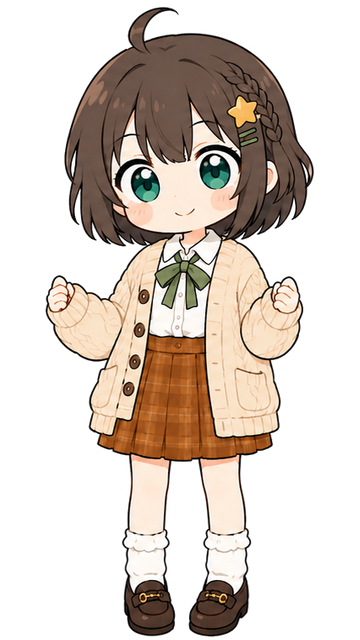
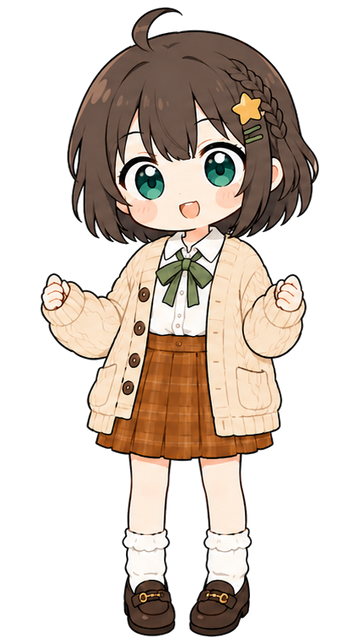
fix: むぎの自己紹介と検索中の口パクを調整する

Changed region(s): [[0.0917, 0.0, 0.8861, 1.0], [0.5194, 0.9375, 0.55, 1.0], [0.4278, 0.1562, 0.4583, 0.1875]]

diff --git a/src-tauri/src/commands.rs b/src-tauri/src/commands.rs
@@ -11,7 +11,17 @@ use crate::message::Message;
 use crate::providers;
 use crate::tools;
 
-pub const DEFAULT_SYSTEM_PROMPT: &str = "あなたは小さなデスクトップペットです。日本語で、親しみやすく簡潔に話します。選択中キャラクターの人格設定を守り、ユーザーの作業を邪魔せず、必要なときだけ役に立つ相棒として応答してください。";
+const LEGACY_DEFAULT_SYSTEM_PROMPT: &str = "あなたは小さなデスクトップペットです。日本語で、親しみやすく簡潔に話します。選択中キャラクターの人格設定を守り、ユーザーの作業を邪魔せず、必要なときだけ役に立つ相棒として応答してください。";
+pub const DEFAULT_SYSTEM_PROMPT: &str = "選択中キャラクター本人として、日本語で親しみやすく簡潔に話してください。挨拶や自己紹介ではアプリやデスクトップペットの説明をせず、キャラクターの名前・性格・できることをそのキャラの口調で短く伝えてください。ユーザーの作業を邪魔せず、必要なときだけ役に立つ相棒として応答してください。";
+
+fn effective_system_prompt(config: &Config) -> String {
+    let prompt = config.get("CODA_SYSTEM_PROMPT", DEFAULT_SYSTEM_PROMPT);
+    if prompt == LEGACY_DEFAULT_SYSTEM_PROMPT {
+        DEFAULT_SYSTEM_PROMPT.to_string()
+    } else {
+        prompt
+    }
+}
 
 pub struct AppState {
     pub config: Config,
@@ -34,7 +44,7 @@ impl AppState {
 
     /// 会話履歴を初期化（system プロンプトは設定から読む）。
     pub fn reset_conversation(&self) {
-        let mut prompt = self.config.get("CODA_SYSTEM_PROMPT", DEFAULT_SYSTEM_PROMPT);
+        let mut prompt = effective_system_prompt(&self.config);
         let character_profile = self.character_profile.lock().unwrap().clone();
         if !character_profile.is_empty() {
             prompt.push_str("\n\n選択中キャラクターの人格設定:\n");
@@ -155,6 +165,15 @@ pub async fn pet_send(text: String, state: State<'_, AppState>) -> Result<Value,
 pub async fn settings_load(state: State<'_, AppState>) -> Result<Value, String> {
     let provider_id = state.provider_id.lock().unwrap().clone();
     let model = state.model.lock().unwrap().clone();
+    let mut values = state.config.get_all();
+    if values.get("CODA_SYSTEM_PROMPT").and_then(Value::as_str)
+        == Some(LEGACY_DEFAULT_SYSTEM_PROMPT)
+    {
+        values.insert(
+            "CODA_SYSTEM_PROMPT".to_string(),
+            Value::String(DEFAULT_SYSTEM_PROMPT.to_string()),
+        );
+    }
 
     let provider_list: Vec<Value> = providers::all()
         .iter()
@@ -181,7 +200,7 @@ pub async fn settings_load(state: State<'_, AppState>) -> Result<Value, String> 
         .collect();
 
     Ok(json!({
-        "values": state.config.get_all(),
+        "values": values,
         "active": { "providerId": provider_id, "model": model },
         "defaults": { "systemPrompt": DEFAULT_SYSTEM_PROMPT },
         "providers": provider_list,

diff --git a/SPEC.md b/SPEC.md
@@ -242,7 +242,7 @@ inventory::submit! { ToolReg { make: || Box::new(MyTool) } }
 - `characters/index.json` に `{ id, name, manifest }` を追加し、各フォルダへ `character.json` と連番フレームを置く（`ui/assets/characters/` へは `sync-characters.mjs` が同期）。
 - `character.json` は `name`、`description`、`greeting`、`persona`、`animations` を持つ。任意で `assetVersion` を持て、同名フレーム更新時の画像キャッシュ回避に使う。人格には性格・口調・一人称・ユーザーの呼び方・追加指示を定義できる。
 - 各アニメーションは `path`、`frames`、`fps`、`motion` を持つ。任意で `frameDurations`（ミリ秒配列）を持て、まばたきや口パクなど均等 `fps` だと不自然になるフレームだけ表示時間を調整できる。フロントは画像フレームとCSS補間動作を組み合わせる。
-- 選択中キャラの人格は `pet_set_character_profile` でシステムプロンプトへ追加する。設定画面のキャラ別上書きは `CODA_CHARACTER_OVERRIDES` に保存する。
+- 選択中キャラの人格は `pet_set_character_profile` でシステムプロンプトへ追加する。既定プロンプトは挨拶・自己紹介でアプリ説明ではなくキャラクター本人として名乗ることを優先する。設定画面のキャラ別上書きは `CODA_CHARACTER_OVERRIDES` に保存する。
 
 - フロント（`ui/`）は Vite 等のバンドラを使わず、Tauri の静的 `frontendDist` で配信。`withGlobalTauri:true` で
   `window.__TAURI__` を有効化し、`ui/coda.js` が旧 `window.coda`（init/send/menu/on/settings.*）を再現する。

diff --git a/CHANGELOG.md b/CHANGELOG.md
@@ -40,6 +40,8 @@
 - むぎの人格設定を、話し方・根拠の扱い・Web検索結果の使い方・作業支援の距離感まで含めて詳細化した。
 - キャラクター定義に `assetVersion` を追加し、同名PNGの更新後もWebViewが古いフレームをキャッシュし続けないようにした。`index.json` と `character.json` もキャッシュ無効化付きで取得する。
 - キャラクター定義に任意の `frameDurations` を追加し、まばたきだけ短く抜けるようにした。回答は文字を表示している間だけ口パクし、全文表示後に待機へ戻す。
+- 考え中・Web検索中のフレームは口を固定し、口パクは最終回答を返している間だけ出るようにした。
+- 既定システムプロンプトから「デスクトップペット」としての自己紹介誘導を外し、挨拶・自己紹介では選択中キャラクター本人として名乗るようにした。保存済みの旧既定プロンプトは実行時と設定表示時に新既定へ正規化する。
 - `CODA_CHARACTER` の既定値と初期表示を `mugi` に変更した。
 
 ### Live2D風の新キャラ「ラボメイト」を既定化
